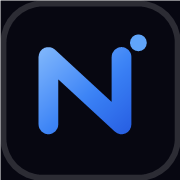
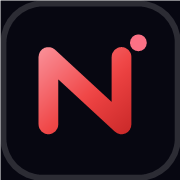
Apply red visual theme across website

Changed region(s): [[0.1944, 0.1667, 0.8333, 0.75]]

diff --git a/components/HeroScene.tsx b/components/HeroScene.tsx
@@ -26,12 +26,12 @@ function RotatingGroup() {
       <Float speed={1.4} rotationIntensity={1.2} floatIntensity={1.6}>
         <Icosahedron args={[1.15, 1]} position={[2.4, 0.6, -1]}>
           <MeshDistortMaterial
-            color="#3b82f6"
+            color="#ef4444"
             distort={0.35}
             speed={2}
             roughness={0.15}
             metalness={0.6}
-            emissive="#1d4ed8"
+            emissive="#b91c1c"
             emissiveIntensity={0.25}
           />
         </Icosahedron>
@@ -40,7 +40,7 @@ function RotatingGroup() {
       <Float speed={1.1} rotationIntensity={1.6} floatIntensity={2.2}>
         <Torus args={[0.85, 0.28, 32, 100]} position={[-2.6, -0.4, -1.5]} rotation={[0.6, 0.4, 0]}>
           <MeshDistortMaterial
-            color="#00e0c6"
+            color="#ff4d4d"
             distort={0.25}
             speed={1.5}
             roughness={0.2}
@@ -54,7 +54,7 @@ function RotatingGroup() {
       <Float speed={1.8} rotationIntensity={1} floatIntensity={1.2}>
         <Octahedron args={[0.55, 0]} position={[0.2, 1.6, -2]}>
           <MeshDistortMaterial
-            color="#64CEFB"
+            color="#fb7185"
             distort={0.4}
             speed={3}
             roughness={0.1}
@@ -75,8 +75,8 @@ export default function HeroScene() {
         gl={{ alpha: true, antialias: true }}
       >
         <ambientLight intensity={0.6} />
-        <pointLight position={[5, 5, 5]} intensity={1.4} color="#64CEFB" />
-        <pointLight position={[-5, -3, 2]} intensity={1} color="#00e0c6" />
+        <pointLight position={[5, 5, 5]} intensity={1.4} color="#fb7185" />
+        <pointLight position={[-5, -3, 2]} intensity={1} color="#ff4d4d" />
         <Suspense fallback={null}>
           <RotatingGroup />
         </Suspense>

diff --git a/app/about/page.tsx b/app/about/page.tsx
@@ -84,7 +84,7 @@ export default function AboutPage() {
       />
 
       <section className="relative overflow-hidden bg-ink py-20 md:py-24">
-        <div className="pointer-events-none absolute inset-0 bg-[radial-gradient(circle_at_20%_0%,rgba(59,130,246,0.16),transparent_38%),radial-gradient(circle_at_85%_100%,rgba(0,224,198,0.08),transparent_34%)]" />
+        <div className="pointer-events-none absolute inset-0 bg-[radial-gradient(circle_at_20%_0%,rgba(239,68,68,0.18),transparent_38%),radial-gradient(circle_at_85%_100%,rgba(185,28,28,0.1),transparent_34%)]" />
         <div className="container-px relative mx-auto grid max-w-6xl gap-7 md:grid-cols-3">
           <Reveal className="h-full">
             <article className="h-full min-h-[280px] border border-white/10 bg-surface px-6 pb-9 pt-0 sm:px-9 sm:pb-10">
@@ -185,7 +185,7 @@ export default function AboutPage() {
       </section>
 
       <section className="relative overflow-hidden border-y border-white/10 bg-surface py-20 md:py-24">
-        <div className="pointer-events-none absolute inset-0 bg-[radial-gradient(circle_at_75%_50%,rgba(59,130,246,0.1),transparent_42%)]" />
+        <div className="pointer-events-none absolute inset-0 bg-[radial-gradient(circle_at_75%_50%,rgba(239,68,68,0.12),transparent_42%)]" />
         <div className="container-px relative mx-auto max-w-6xl">
           <div className="grid gap-x-10 gap-y-12 sm:grid-cols-2 lg:grid-cols-[1.45fr_repeat(4,minmax(0,1fr))] lg:items-center">
             <Reveal className="sm:col-span-2 lg:col-span-1">

diff --git a/components/PageHero.tsx b/components/PageHero.tsx
@@ -37,7 +37,7 @@ export default function PageHero({
   return (
     <section className="relative flex min-h-[62vh] w-full items-center overflow-hidden bg-black pt-20 sm:min-h-[68vh]">
       <video
-        className="absolute inset-0 h-full w-full object-cover"
+        className="absolute inset-0 h-full w-full object-cover grayscale contrast-125"
         src={HERO_VIDEO_URL}
         autoPlay
         loop
@@ -46,8 +46,9 @@ export default function PageHero({
         preload="metadata"
         aria-hidden="true"
       />
+      <div className="absolute inset-0 bg-red-600/45 mix-blend-color" />
       <div className="absolute inset-0 bg-[linear-gradient(to_bottom,rgba(5,5,14,0.58),rgba(5,5,14,0.82))]" />
-      <div className="absolute inset-0 bg-[radial-gradient(circle_at_50%_45%,rgba(59,130,246,0.2),transparent_42%),linear-gradient(to_top,#070711_0%,transparent_30%)]" />
+      <div className="absolute inset-0 bg-[radial-gradient(circle_at_50%_45%,rgba(239,68,68,0.24),transparent_42%),linear-gradient(to_top,#070711_0%,transparent_30%)]" />
       <div className="section-grid pointer-events-none absolute inset-0 opacity-35" />
 
       <div className="container-px relative z-10 mx-auto flex w-full max-w-7xl flex-col items-center py-24 text-center sm:py-32">

diff --git a/components/Hero.tsx b/components/Hero.tsx
@@ -22,7 +22,7 @@ export default function Hero() {
   return (
     <section className="relative min-h-[700px] w-full overflow-hidden bg-black sm:min-h-screen">
       <video
-        className="absolute inset-0 h-full w-full object-cover"
+        className="absolute inset-0 h-full w-full object-cover grayscale contrast-125"
         src={HERO_VIDEO_URL}
         autoPlay
         loop
@@ -31,8 +31,9 @@ export default function Hero() {
         preload="auto"
         aria-hidden="true"
       />
+      <div className="absolute inset-0 bg-red-600/45 mix-blend-color" />
       <div className="absolute inset-0 bg-[linear-gradient(90deg,rgba(5,5,14,0.92)_0%,rgba(5,5,14,0.68)_52%,rgba(5,5,14,0.38)_100%)]" />
-      <div className="absolute inset-0 bg-[radial-gradient(circle_at_70%_45%,rgba(59,130,246,0.18),transparent_36%),linear-gradient(to_top,#070711_0%,transparent_28%)]" />
+      <div className="absolute inset-0 bg-[radial-gradient(circle_at_70%_45%,rgba(239,68,68,0.24),transparent_36%),linear-gradient(to_top,#070711_0%,transparent_28%)]" />
       <div className="section-grid pointer-events-none absolute inset-0 opacity-40" />
 
       <div className="container-px relative z-10 mx-auto flex min-h-[700px] max-w-7xl items-center py-28 sm:min-h-screen sm:py-32">

diff --git a/components/CtaSection.tsx b/components/CtaSection.tsx
@@ -20,7 +20,7 @@ export default function CtaSection({
         <Reveal>
           <div className="relative min-w-0 overflow-hidden rounded-3xl border border-white/10 bg-black px-5 py-14 text-center shadow-2xl shadow-primary/10 sm:rounded-[2rem] sm:px-12 sm:py-16 md:py-24">
             <video
-              className="absolute inset-0 h-full w-full object-cover"
+              className="absolute inset-0 h-full w-full object-cover grayscale contrast-125"
               src={HERO_VIDEO_URL}
               autoPlay
               loop
@@ -29,6 +29,7 @@ export default function CtaSection({
               preload="metadata"
               aria-hidden="true"
             />
+            <div className="absolute inset-0 bg-red-600/50 mix-blend-color" />
             <div className="absolute inset-0 bg-[linear-gradient(90deg,rgba(5,5,14,0.92),rgba(5,5,14,0.7),rgba(5,5,14,0.92))]" />
             <div className="section-grid pointer-events-none absolute inset-0 opacity-30" />
             <div className="relative z-10">

diff --git a/tailwind.config.ts b/tailwind.config.ts
@@ -11,12 +11,12 @@ const config: Config = {
         ink: "#0a0a14",
         surface: "#0f0f1c",
         primary: {
-          DEFAULT: "#3b82f6",
-          light: "#64CEFB",
-          dark: "#1d4ed8",
+          DEFAULT: "#ef4444",
+          light: "#fb7185",
+          dark: "#b91c1c",
         },
         accent: {
-          DEFAULT: "#00e0c6",
+          DEFAULT: "#ff4d4d",
         },
       },
       fontFamily: {
@@ -25,7 +25,7 @@ const config: Config = {
       },
       backgroundImage: {
         "grid-glow":
-          "radial-gradient(circle at 20% 20%, rgba(59,130,246,0.35), transparent 40%), radial-gradient(circle at 80% 0%, rgba(0,224,198,0.25), transparent 45%)",
+          "radial-gradient(circle at 20% 20%, rgba(239,68,68,0.35), transparent 40%), radial-gradient(circle at 80% 0%, rgba(185,28,28,0.25), transparent 45%)",
       },
       animation: {
         "spin-slow": "spin 18s linear infinite",

diff --git a/app/globals.css b/app/globals.css
@@ -19,8 +19,8 @@ body {
   overflow-x: clip;
   overflow-wrap: break-word;
   background:
-    radial-gradient(circle at 10% 0%, rgba(59, 130, 246, 0.12), transparent 28rem),
-    radial-gradient(circle at 90% 35%, rgba(0, 224, 198, 0.08), transparent 30rem),
+    radial-gradient(circle at 10% 0%, rgba(239, 68, 68, 0.14), transparent 28rem),
+    radial-gradient(circle at 90% 35%, rgba(185, 28, 28, 0.1), transparent 30rem),
     #070711;
   color: #f5f5fa;
 }
@@ -47,7 +47,7 @@ svg {
 }
 
 ::selection {
-  background: rgba(100, 206, 251, 0.35);
+  background: rgba(239, 68, 68, 0.4);
   color: #fff;
 }
 
@@ -55,7 +55,7 @@ a,
 button,
 input,
 textarea {
-  outline-color: #64cefb;
+  outline-color: #fb7185;
 }
 
 .container-px {
